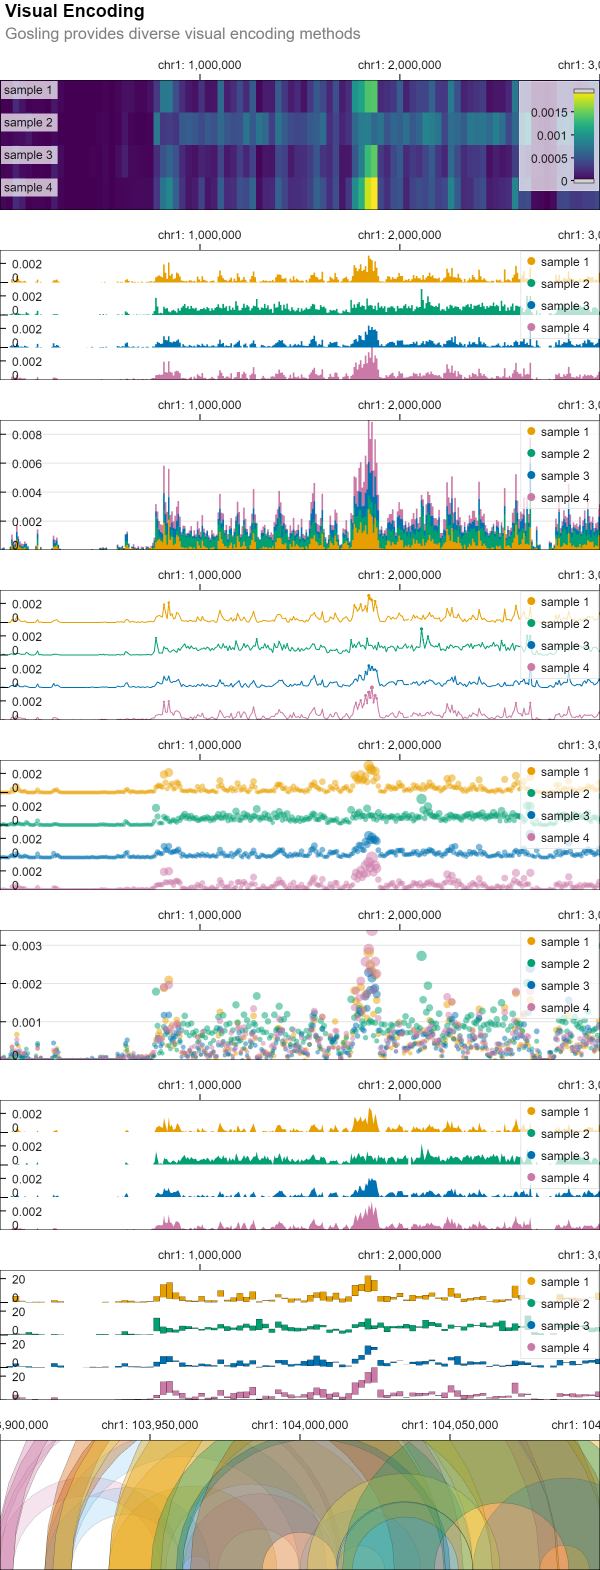
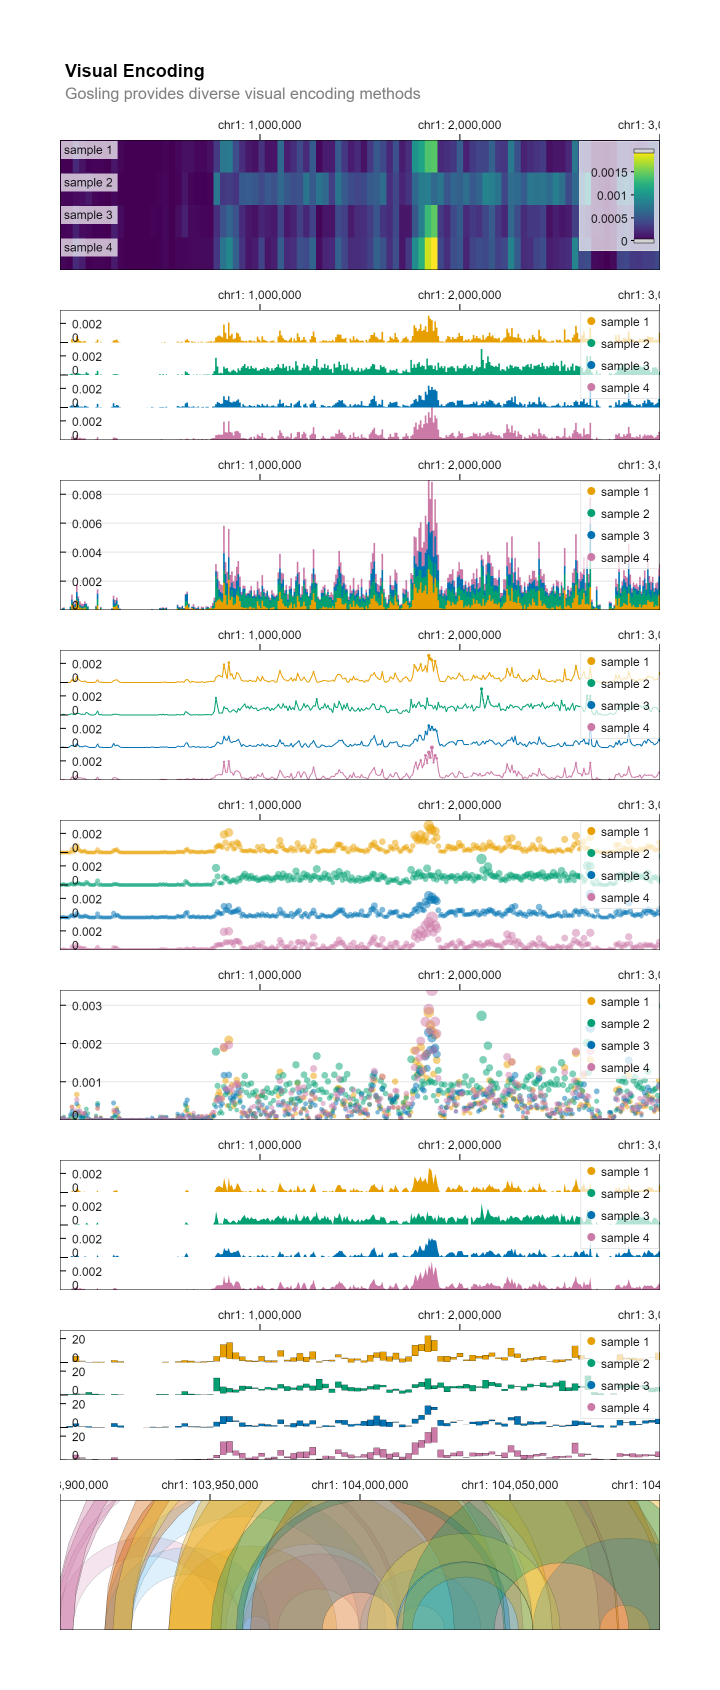
fix: extract gosling component for img

diff --git a/scripts/gosling-boxes.js b/scripts/gosling-boxes.js
@@ -49,6 +49,7 @@ function blobCallback(){
 }
 
 
+
 /**
  * @param {string} spec
  * @param {string} apiName
@@ -64,15 +65,17 @@ async function callAPI(spec, output, output_spec, img_path, screenshot_path) {
 
     let page = await browser.newPage();
     await page.setContent(html(spec), { waitUntil: "networkidle0" });
-    await page.waitForSelector(".gosling-component");
+    let comp = await page.waitForSelector(".gosling-component");
+    await comp.screenshot({path:"test.png"})
 
     let canvas_elem = await page.$("canvas")
-    await canvas_elem.screenshot({path: screenshot_path, type:"png"});
+    await canvas_elem.screenshot({path: screenshot_path, type:"jpeg", omitBackground:true});
 
     let canvas = await page.evaluate(()=> canvas);
     console.log(canvas);
     
     const dataUrl = await page.evaluate(async () => {
+    
      return document.getElementsByTagName("canvas")[0].toDataURL();
     })
     const data = Buffer.from(dataUrl.split(',').pop(),"base64");
@@ -89,7 +92,7 @@ let name = input.split(".")[0]
 let output = name+".json";
 let output_spec = name+".json";
 let img_output = name+".png";
-let screenshot_output = name+".png"
+let screenshot_output = name+".jpeg"
 
 if (!input || !output|| !output_spec) {
     console.error(
